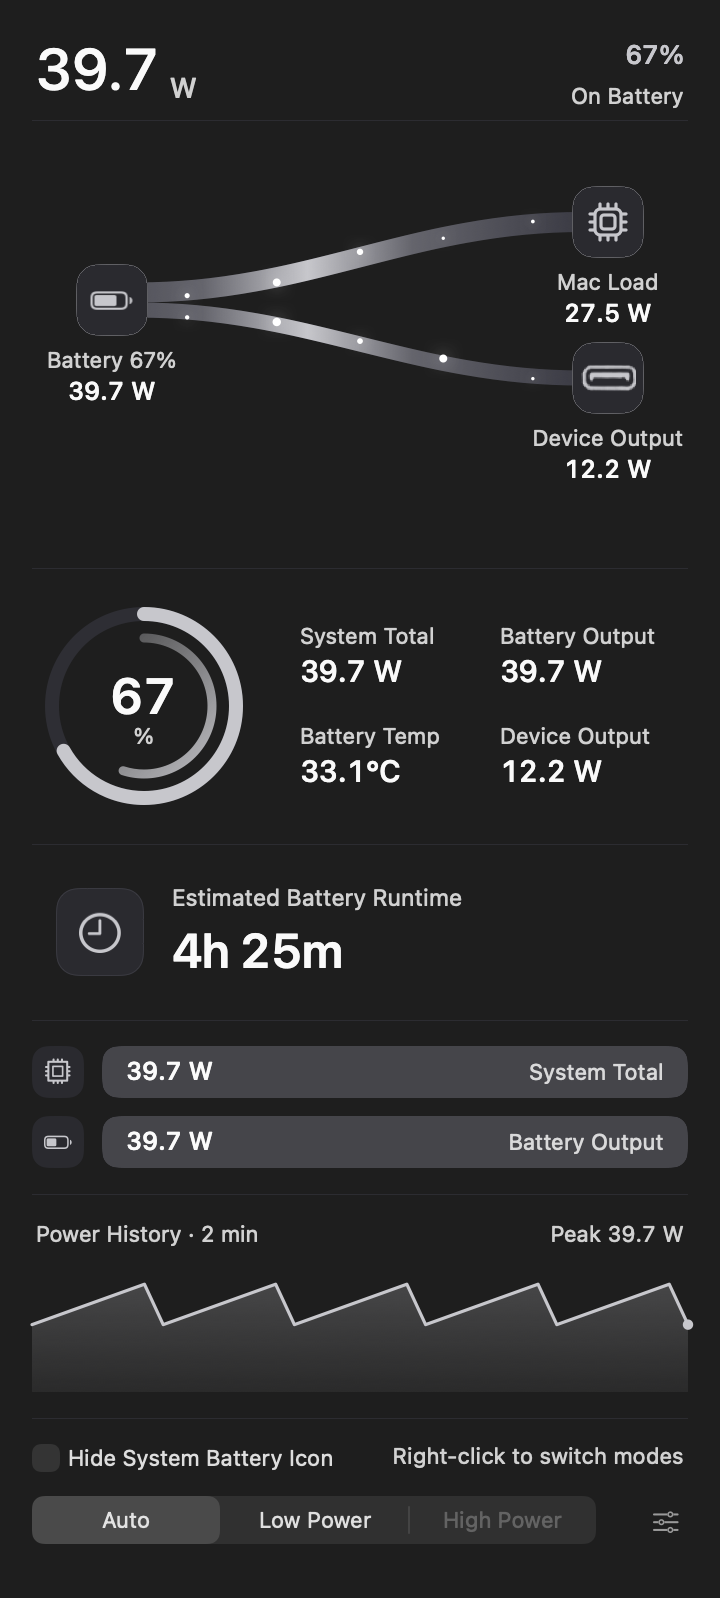
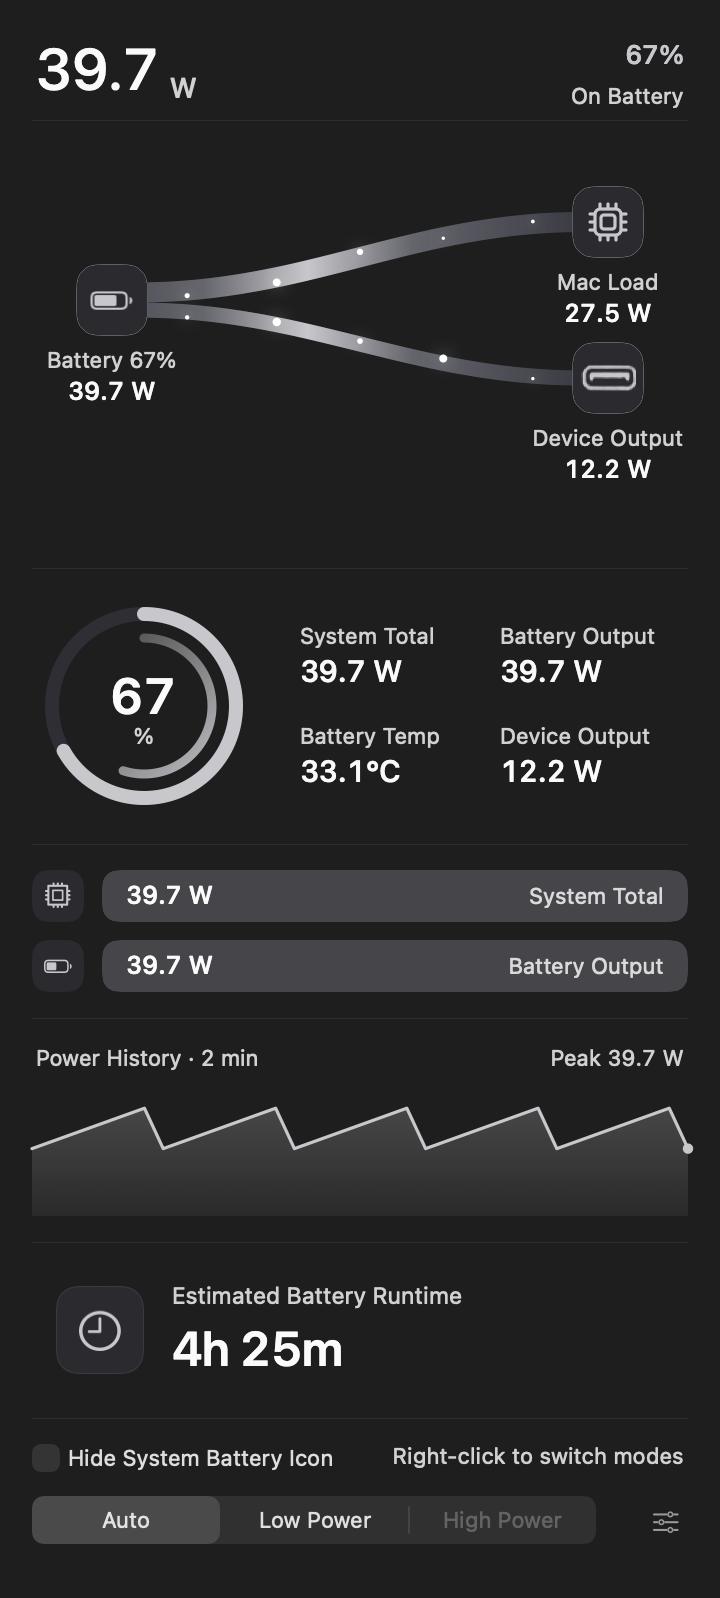
Place battery runtime below power history

Changed region(s): [[0.0306, 0.5213, 0.9778, 0.7359], [0.0306, 0.7666, 0.9778, 0.8586]]

diff --git a/tests/visual/capture_runtime_sections.swift b/tests/visual/capture_runtime_sections.swift
@@ -91,6 +91,7 @@ private enum CaptureRuntimeSections {
                 let flow = views.compactMap { $0 as? PowerFlowView }.first!
                 let ring = views.compactMap { $0 as? RingGaugeView }.first!
                 let lanes = views.compactMap { $0 as? LaneView }.first!
+                let historyView = views.compactMap { $0 as? HistoryView }.first!
                 let footer = views.compactMap { $0 as? PopoverFooterView }.first!
                 func frame(_ view: NSView) -> NSRect {
                     let rect = view.convert(view.bounds, to: controller.view)
@@ -102,7 +103,7 @@ private enum CaptureRuntimeSections {
                 }
                 let layout = runtime.sectionLayoutForTest
                 let fullHeight = controller.preferredHeight
-                let fullLanesY = frame(lanes).minY
+                let fullFooterY = frame(footer).minY
                 let rowFrame = frame(runtime)
                 var checks = [
                     "windowNeverShown": !window.isVisible && !window.isKeyWindow,
@@ -121,7 +122,7 @@ private enum CaptureRuntimeSections {
                     "valueMoreProminentThanCaption": layout.valueFontSize > layout.titleFontSize,
                     "numericTimeLargerThanStatusText": layout.valueFontSize == (snapshot.plugged ? 16 : 24),
                     "instrumentContained": [layout.titleFrame, layout.valueFrame, layout.iconFrame, layout.iconWellFrame].allSatisfy { runtime.bounds.contains($0) },
-                    "headerFlowRingRuntimeLanesContiguous": adjacent(header, flow) && adjacent(flow, ring) && adjacent(ring, runtime) && adjacent(runtime, lanes),
+                    "headerFlowRingLanesHistoryRuntimeFooterContiguous": adjacent(header, flow) && adjacent(flow, ring) && adjacent(ring, lanes) && adjacent(lanes, historyView) && adjacent(historyView, runtime) && adjacent(runtime, footer),
                     "footerContained": controller.view.bounds.contains(frame(footer)),
                     "correctStateText": controller.runtimePresentationForTest == "Estimated Battery Runtime · \(snapshot.plugged ? "External Power" : name == "low-battery" ? "18m" : "4h 25m")",
                     "noRunningAnimations": controller.runningAnimationCountForTest == 0,
@@ -136,7 +137,7 @@ private enum CaptureRuntimeSections {
                 Settings.setModule(.runtime, visible: false)
                 settle()
                 checks["hidingRuntimeRemovesItsFullHeight"] = fullHeight - controller.preferredHeight == PopoverRuntimeView.preferredHeight
-                checks["hidingRuntimeClosesGap"] = fullLanesY - frame(lanes).minY == PopoverRuntimeView.preferredHeight && adjacent(ring, lanes)
+                checks["hidingRuntimeClosesGap"] = fullFooterY - frame(footer).minY == PopoverRuntimeView.preferredHeight && adjacent(historyView, footer)
                 Settings.setModule(.runtime, visible: true)
                 for module in Settings.Module.allCases where module != .runtime { Settings.setModule(module, visible: false) }
                 settle()

diff --git a/tests/interaction/main.swift b/tests/interaction/main.swift
@@ -2503,24 +2503,24 @@ if #available(macOS 26.0, *), !screenLocked, let button = item.button {
         spin(0.8)
         guard let root = controller.contentViewForTest, let window = root.window,
               let runtime = runtimeDescendants(root).compactMap({ $0 as? PopoverRuntimeView }).first,
-              let lanes = runtimeDescendants(root).compactMap({ $0 as? LaneView }).first else {
+              let footer = runtimeDescendants(root).compactMap({ $0 as? PopoverFooterView }).first else {
             check("\(name) 独立续航具有真实宿主和生产视图", false)
             continue
         }
         root.layoutSubtreeIfNeeded()
-        func lanesScreenY() -> CGFloat {
-            lanes.window?.convertPoint(toScreen: lanes.convert(.zero, to: nil)).y ?? .nan
+        func footerScreenY() -> CGFloat {
+            footer.window?.convertPoint(toScreen: footer.convert(.zero, to: nil)).y ?? .nan
         }
-        let lanesY = lanesScreenY()
+        let footerY = footerScreenY()
         let height = window.frame.height
         Settings.setModule(.runtime, visible: false)
         spin(0.3)
         root.layoutSubtreeIfNeeded()
-        let hiddenLanesY = lanesScreenY()
+        let hiddenFooterY = footerScreenY()
         check("\(name) 关闭续航后真实仪表与宿主移除完整续航栏目高度",
-              runtime.isHidden && abs(hiddenLanesY - lanesY - runtimeSectionHeight) < 0.5
+              runtime.isHidden && abs(hiddenFooterY - footerY - runtimeSectionHeight) < 0.5
                   && abs(height - window.frame.height - runtimeSectionHeight) < 0.5,
-              "lanes=\(lanesY)→\(hiddenLanesY); height=\(height)→\(window.frame.height)")
+              "footer=\(footerY)→\(hiddenFooterY); height=\(height)→\(window.frame.height)")
         controller.handleOutsideClick(); spin(0.8)
         controller.openForSettingsCommandTest(relativeTo: button); spin(0.8)
         check("\(name) 关闭重开后继续隐藏已取消勾选的续航",
@@ -2529,7 +2529,7 @@ if #available(macOS 26.0, *), !screenLocked, let button = item.button {
         spin(0.3)
         root.layoutSubtreeIfNeeded()
         check("\(name) 重新开启续航后仪表与真实宿主恢复原坐标",
-              !runtime.isHidden && abs(lanesScreenY() - lanesY) < 0.5
+              !runtime.isHidden && abs(footerScreenY() - footerY) < 0.5
                   && abs((root.window?.frame.height ?? 0) - height) < 0.5)
     }
 }

diff --git a/Popover/PopoverContentView.swift b/Popover/PopoverContentView.swift
@@ -882,7 +882,7 @@ final class PopoverContentViewController: NSViewController {
         documentView.addSubview(stack)
         view.addSubview(scrollView)
 
-        [header, flowView, ringView, runtimeView, laneView, historyView, footer].forEach(stack.addArrangedSubview)
+        [header, flowView, ringView, laneView, historyView, runtimeView, footer].forEach(stack.addArrangedSubview)
 
         NSLayoutConstraint.activate([
             scrollView.leadingAnchor.constraint(equalTo: view.leadingAnchor),

diff --git a/tests/test_popover_modules_contract.py b/tests/test_popover_modules_contract.py
@@ -27,9 +27,9 @@ class PopoverModulesContractTests(unittest.TestCase):
         cls.popover = POPOVER.read_text(encoding="utf-8")
         cls.status = STATUS.read_text(encoding="utf-8")
 
-    def test_content_contains_runtime_between_ring_and_lanes(self):
+    def test_content_contains_runtime_below_history(self):
         self.assertIn(
-            "[header, flowView, ringView, runtimeView, laneView, historyView, footer].forEach(stack.addArrangedSubview)",
+            "[header, flowView, ringView, laneView, historyView, runtimeView, footer].forEach(stack.addArrangedSubview)",
             self.content,
         )
 

diff --git a/design/feedback-runtime/runtime-layout/README.md b/design/feedback-runtime/runtime-layout/README.md
@@ -6,8 +6,9 @@ an independent module must use the existing section separators, rather than a
 filled card. See the [selected layout](selected-reference.png) and
 [separator feedback](separator-feedback.png).
 
-The production AppKit view is an independent 88-point module between Ring Gauge
-and Power Lanes. Its background is transparent and its top hairline matches the
+The production AppKit view is an independent 88-point module below Power History
+and above the footer controls, following the user's final ordering request.
+Its background is transparent and its top hairline matches the
 existing instruments. The next visible section supplies the bottom separator.
 The clock well is the only filled element; it uses the existing adaptive well,
 border and neutral icon colors. A quiet title sits above a 24-point time reading.
@@ -38,11 +39,17 @@ Power in Light/Dark. It checks text containment, section separators, transparent
 background, module order, exact height removal, no residual gap, and no shadows.
 
 - Eight focused runtime Swift tests passed with warnings treated as errors.
-- The complete compiled Swift suite passed: **383 tests, zero failures**.
+- At the separator/theme revision, the complete compiled Swift suite passed:
+  **383 tests, zero failures**.
 - Module/settings Python contracts passed: **28 tests**.
 - Twelve production-render cases passed **315 assertions, zero failures**.
 - The updated real-window interaction harness compiles with warnings treated as
   errors; it was not executed in this layout-only iteration.
+
+The subsequent order-only change places runtime below History. Its current
+captures verify the full stack order and the footer moving up by exactly 88
+points when runtime is hidden. The 27 module source contracts were rerun and
+passed. The earlier full Swift suite was not repeated for this order-only change.
 
 [Layout evidence](layout-evidence.json) records geometry, image hashes and
 unchanged installed-app/helper/preferences hashes. No hidden capture window
@@ -54,7 +61,7 @@ the ignored capture directory.
 
 The reusable capture command is documented in
 [`runtime-section/README.md`](../runtime-section/README.md); use
-`.build/runtime-section-preview.noindex/separator-captures` as the output directory.
+`.build/runtime-section-preview.noindex/below-history-captures` as the output directory.
 All twelve captures remain there; the two on-battery examples are retained here.
 
 Real WindowServer Glass capture is unavailable in the disposable macOS-TestLab

diff --git a/.agent/project.md b/.agent/project.md
@@ -97,8 +97,8 @@ approach. Both startup sampling and the normal observation reader enrich their
 visible snapshots; the pure registry parser remains deterministic. External
 power and failed readings suppress numeric runtime, and a fresh unknown estimate
 clears the previous value. No custom runtime formula or extra sampling timer is
-used. The runtime section is an independent 88-point module between the ring
-gauge and power lanes. It shares the transparent content surface and inset
+used. The runtime section is an independent 88-point module below Power History
+and above the footer controls. It shares the transparent content surface and inset
 hairline separators of the existing instruments. A neutral clock well sits on
 the left, with a quiet title and prominent time on the right. Well, border and
 icon colors resolve against the view's current appearance, including high contrast. Non-numeric
